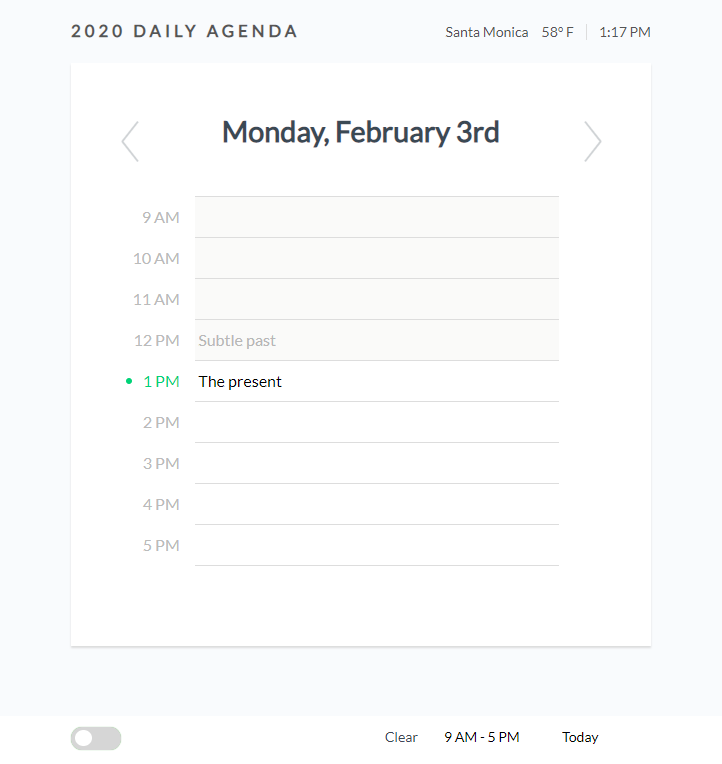
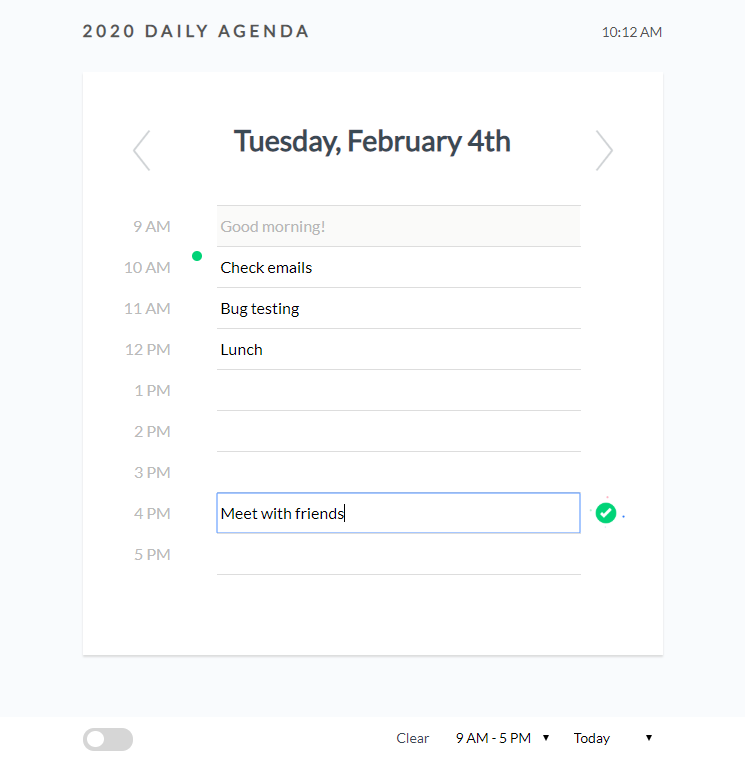
Updated screenshots and readme

diff --git a/README.md b/README.md
@@ -1,14 +1,14 @@
 # Day Planner
 Day planner that lets you set an hourly agenda for the work day.
 
-* Indicates the current hour
+* An indicator icon tracks the current time along the hour rows
 * Past hours are grayed out
 * Uses localStorage to save input field data
-* Input fields save as you modify the text
+* Input fields save as you modify text
 * Navigate between different dates
 * Change between work hours and 24 hour view
-* Dark mode and "Golden" hour view modes
-* When able (not on GitHub) display local city and temperature
+* Dark mode and "Golden" hour view modes. Golden displays around sunrise and sunset
+* When able (not on GitHub) displays the local city and temperature in the navbar
 * Clear stored calendar data
 
 [GitHub Demo](https://yankidank.github.io/daily-agenda/) | [Golden Hour](https://yankidank.github.io/daily-agenda/?mode=golden)
